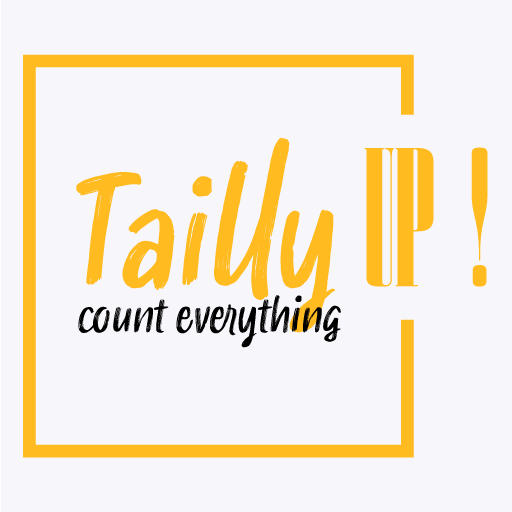
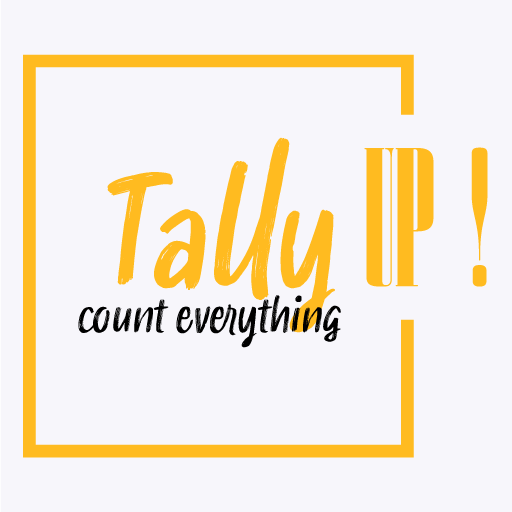
Tailly to Tally

Changed region(s): [[0.125, 0.3125, 0.4375, 0.5625]]

diff --git a/index.html b/index.html
@@ -3,12 +3,12 @@
 <head>
     <meta charset="UTF-8">
     <meta name="viewport" content="width=device-width, initial-scale=1.0">
-    <title>Tailly Up!</title>
+    <title>Tally Up!</title>
     <link rel="stylesheet" href="./dist/styles.css">
     <link rel="manifest" href="./manifest.json">
     <script src="./src/js/app.js" defer></script>
 </head>
-<body class="bg-tailly">
+<body class="bg-tally">
     <nav class="bg-up">
         <div class="mx-auto max-w-7xl px-2 sm:px-6 lg:px-8">
           <div class="relative flex h-16 items-center justify-between">
@@ -26,7 +26,7 @@
 
             <div class="pl-12 pr-12 flex flex-1 items-center justify-center sm:items-stretch sm:justify-start">
               <div class="flex flex-shrink-0 items-center">
-                <h1 class="text-2xl font-bold text-gray-950">Tailly Up!</h1>
+                <h1 class="text-2xl font-bold text-gray-950">Tally Up!</h1>
               </div>
             </div>
 

diff --git a/dist/styles.css b/dist/styles.css
@@ -722,7 +722,7 @@ video {
   background-color: rgb(239 68 68 / var(--tw-bg-opacity));
 }
 
-.bg-tailly {
+.bg-tally {
   --tw-bg-opacity: 1;
   background-color: rgb(247 246 251 / var(--tw-bg-opacity));
 }

diff --git a/tailwind.config.js b/tailwind.config.js
@@ -7,7 +7,7 @@ module.exports = {
   theme: {
     extend: {
       colors: {
-        'tailly': '#f7f6fb',
+        'tally': '#f7f6fb',
         'up': '#ffbb20'
       },
     },
